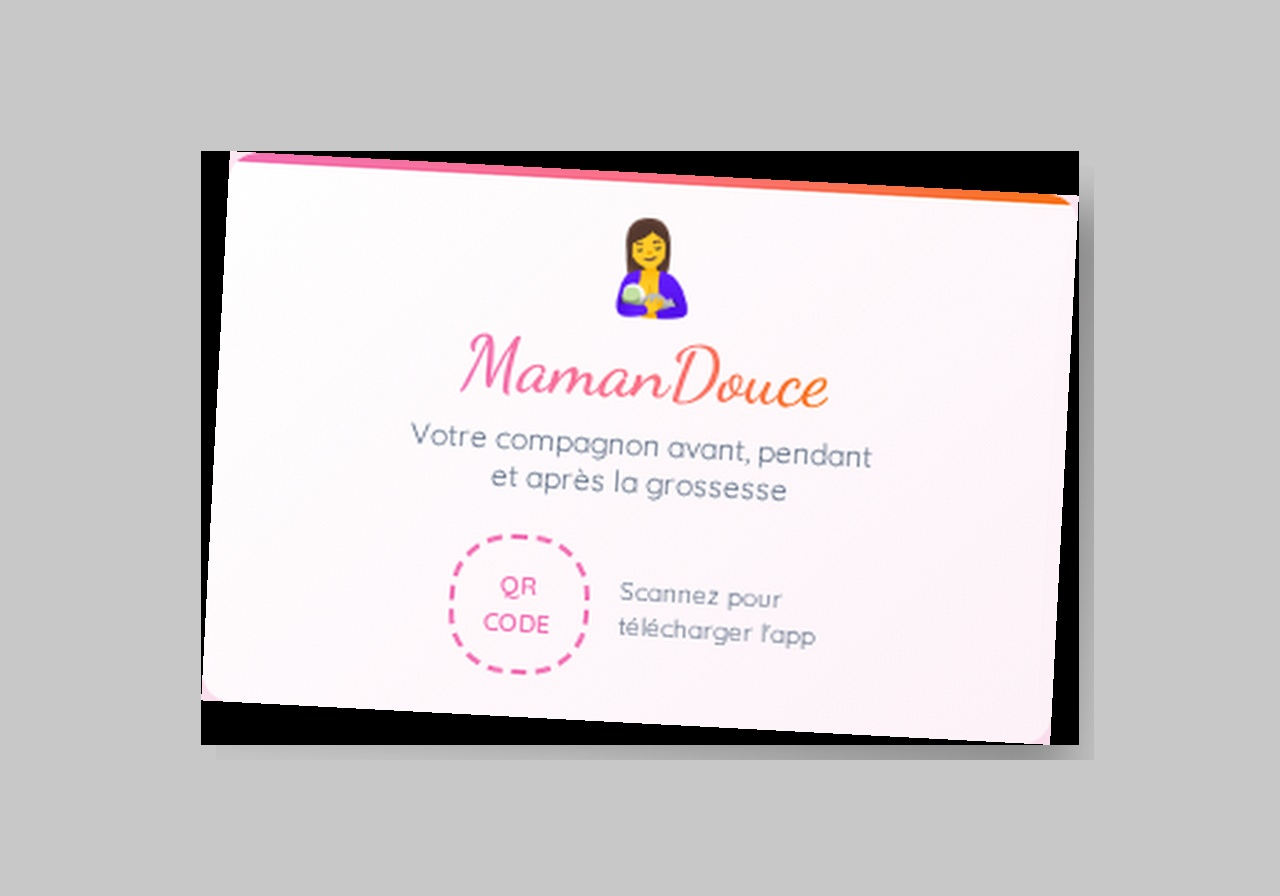
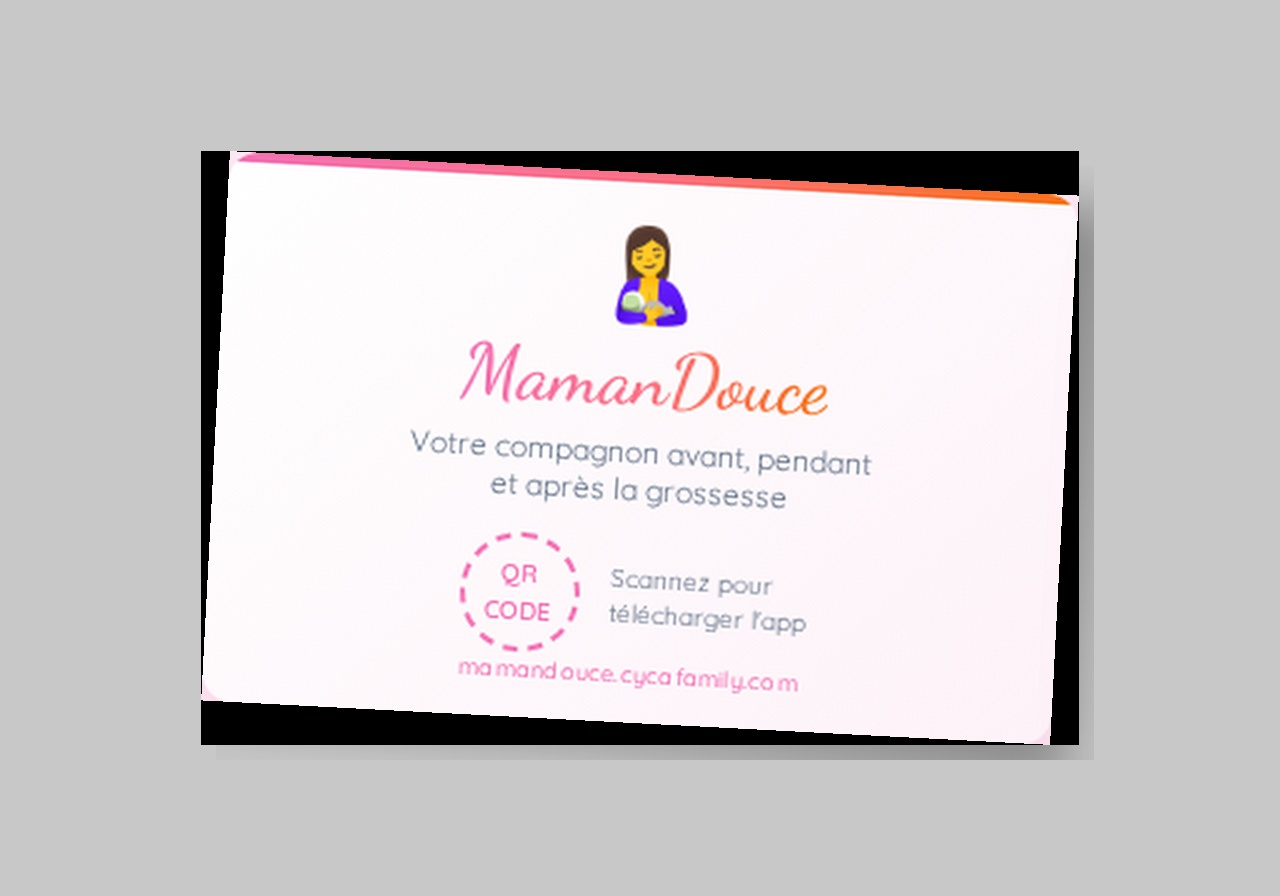
auto-commit for 940a216e-976c-4c54-b5e3-5fb0f358167c

Changed region(s): [[0.3125, 0.375, 0.6875, 0.5625], [0.3438, 0.5938, 0.6562, 0.7812], [0.4688, 0.2188, 0.5312, 0.375]]

diff --git a/frontend/src/pages/CarteVisitePage.js b/frontend/src/pages/CarteVisitePage.js
@@ -140,41 +140,49 @@ export default function CarteVisitePage() {
               background: 'linear-gradient(135deg, #ffffff 0%, #fdf2f8 100%)'
             }}
           >
-            <div className="h-full flex flex-col items-center justify-center p-5 relative">
+            <div className="h-full flex flex-col items-center justify-between p-5 relative">
               {/* Top gradient bar */}
               <div 
                 className="absolute top-0 left-0 right-0 h-1"
                 style={{ background: 'linear-gradient(90deg, #f472b6, #fb7185, #f97316)' }}
               />
               
-              <div className="text-4xl mb-1">🤱</div>
-              <div 
-                className="text-3xl font-semibold"
-                style={{ 
-                  fontFamily: "'Dancing Script', cursive",
-                  background: 'linear-gradient(90deg, #f472b6, #fb7185, #f97316)',
-                  WebkitBackgroundClip: 'text',
-                  WebkitTextFillColor: 'transparent'
-                }}
-              >
-                MamanDouce
-              </div>
-              <div className="text-slate-500 text-xs mt-1 text-center leading-tight">
-                Votre compagnon avant, pendant<br/>et après la grossesse
+              {/* Contenu principal */}
+              <div className="flex-1 flex flex-col items-center justify-center">
+                <div className="text-4xl mb-1">🤱</div>
+                <div 
+                  className="text-3xl font-semibold"
+                  style={{ 
+                    fontFamily: "'Dancing Script', cursive",
+                    background: 'linear-gradient(90deg, #f472b6, #fb7185, #f97316)',
+                    WebkitBackgroundClip: 'text',
+                    WebkitTextFillColor: 'transparent'
+                  }}
+                >
+                  MamanDouce
+                </div>
+                <div className="text-slate-500 text-xs mt-1 text-center leading-tight">
+                  Votre compagnon avant, pendant<br/>et après la grossesse
+                </div>
+                
+                {showQRCode && (
+                  <div className="flex items-center gap-3 mt-3">
+                    <div 
+                      className="w-12 h-12 border-2 border-dashed border-pink-400 rounded-lg flex items-center justify-center text-pink-400 text-[10px] font-semibold"
+                    >
+                      QR<br/>CODE
+                    </div>
+                    <div className="text-[10px] text-slate-500 leading-snug text-left">
+                      Scannez pour<br/>télécharger l'app
+                    </div>
+                  </div>
+                )}
               </div>
               
-              {showQRCode && (
-                <div className="flex items-center gap-3 mt-4">
-                  <div 
-                    className="w-14 h-14 border-2 border-dashed border-pink-400 rounded-lg flex items-center justify-center text-pink-400 text-[10px] font-semibold"
-                  >
-                    QR<br/>CODE
-                  </div>
-                  <div className="text-[10px] text-slate-500 leading-snug text-left">
-                    Scannez pour<br/>télécharger l'app
-                  </div>
-                </div>
-              )}
+              {/* URL en bas */}
+              <div className="text-[9px] text-pink-400 font-medium tracking-wide">
+                mamandouce.cycafamily.com
+              </div>
             </div>
           </div>
         </div>
